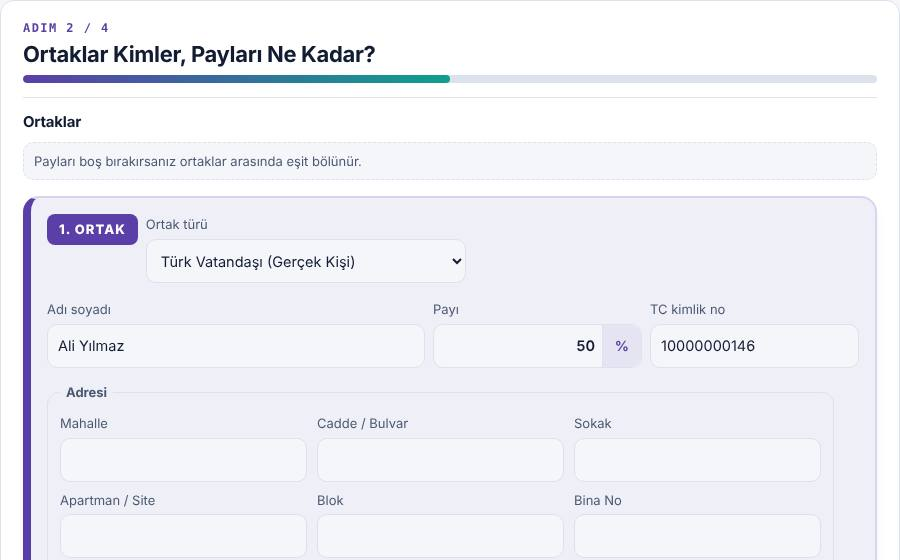
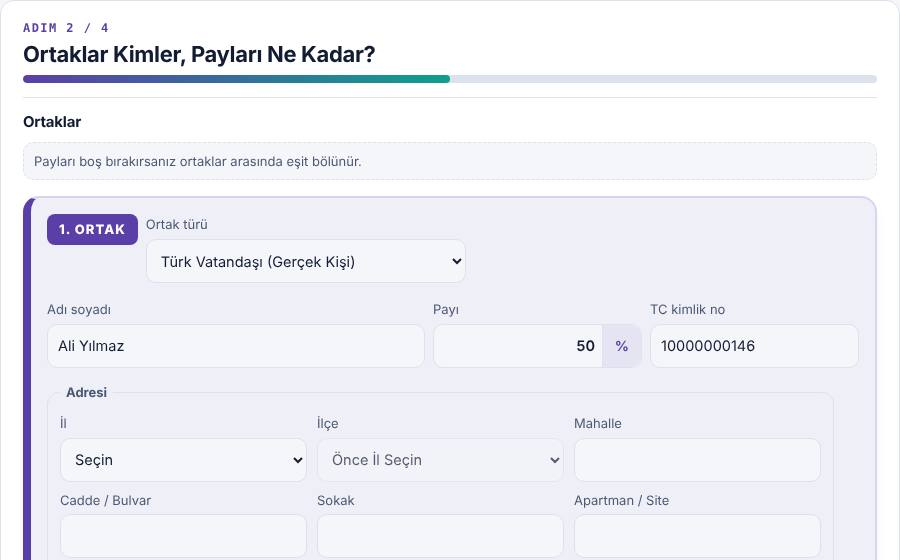
Adres: ilçe açılır listeden (81 il), mahalle önerili; dilekçe formlarında da aynı
Claude-Session: https://claude.ai/code/session_018UFAVAkLcBcEWp4f4jsZc1

diff --git a/site/index.html b/site/index.html
@@ -3329,18 +3329,19 @@ var IST=['Adalar','Arnavutköy','Ataşehir','Avcılar','Bağcılar','Bahçelievl
 function addrStr(a){if(!a)return '';var p=[];if(a.mah)p.push(a.mah+(/mah/i.test(a.mah)?'':' Mah.'));if(a.cad)p.push(a.cad+(/(cad|bulv|bul\.)/i.test(a.cad)?'':' Cad.'));if(a.sok)p.push(a.sok+(/sok|sk\.?$/i.test(a.sok)?'':' Sk.'));var no='';if(a.no)no='No: '+a.no+(a.daire?'/'+a.daire:'');if(no)p.push(no);var tail=[a.pk,[a.ilce,a.il].filter(Boolean).join(' / ')].filter(Boolean).join(' ');if(tail)p.push(tail);return p.join(' ');}
 function addrHtml(id,label,val){val=val||{};return '<div class="f addr" data-addr="'+id+'"><label>'+esc(label)+'</label><div class="agrid">'+
   '<div class="inp"><select data-a="il" aria-label="İl"><option value="">İl seçin</option>'+ILLER.map(function(x){return '<option'+(x===(val.il||'')?' selected':'')+'>'+x+'</option>';}).join('')+'</select></div>'+
-  '<div class="inp"><input data-a="ilce" placeholder="İlçe" aria-label="İlçe" autocomplete="off" value="'+esc(val.ilce||'')+'"'+((val.il||'')==='İstanbul'?' list="dl-ist"':'')+'></div>'+
-  '<div class="inp a-wide"><input data-a="mah" placeholder="Mahalle" aria-label="Mahalle" value="'+esc(val.mah||'')+'"></div>'+
+  '<div class="inp"><select data-a="ilce" aria-label="İlçe"'+(val.il?'':' disabled')+'>'+ilceOpts(val.il,val.ilce)+'</select></div>'+
+  '<div class="inp a-wide"><input data-a="mah" placeholder="Mahalle" aria-label="Mahalle" autocomplete="off" list="dlm-'+id+'" value="'+esc(val.mah||'')+'"><datalist id="dlm-'+id+'"></datalist></div>'+
   '<div class="inp"><input data-a="cad" placeholder="Cadde / bulvar" aria-label="Cadde veya bulvar" value="'+esc(val.cad||'')+'"></div>'+
   '<div class="inp"><input data-a="sok" placeholder="Sokak" aria-label="Sokak" value="'+esc(val.sok||'')+'"></div>'+
   '<div class="inp"><input data-a="no" placeholder="Bina no" aria-label="Bina numarası" value="'+esc(val.no||'')+'"></div>'+
   '<div class="inp"><input data-a="daire" placeholder="Daire no" aria-label="Daire numarası" value="'+esc(val.daire||'')+'"></div>'+
   '<div class="inp"><input data-a="pk" placeholder="Posta kodu" aria-label="Posta kodu" inputmode="numeric" maxlength="5" value="'+esc(val.pk||'')+'"></div>'+
   '</div></div>';}
-function bindAddr(wrap,obj,cb){
+function ilceOpts(il,cur){var L=(il&&window.ekAdrD&&ekAdrD.ilce[il]||[]).slice().sort(function(a,b){return a.localeCompare(b,'tr');});if(cur&&L.indexOf(cur)<0)L.unshift(cur);return '<option value="">'+(il?'İlçe seçin':'Önce il seçin')+'</option>'+L.map(function(x){return '<option'+(x===cur?' selected':'')+'>'+esc(x)+'</option>';}).join('');}
+function bindAddr(wrap,obj,cb){var mi=$('[data-a=mah]',wrap);if(obj.il&&window.ekAdrMah&&mi)ekAdrMah(obj.il,obj.ilce,mi.getAttribute('list'));
   $$('[data-a]',wrap).forEach(function(el){var k=el.dataset.a;
     if(k==='pk')bindMask(el,'posta');
-    ['input','change'].forEach(function(ev){el.addEventListener(ev,function(){obj[k]=el.value;if(k==='il'){var ic=$('[data-a=ilce]',wrap);if(el.value==='İstanbul')ic.setAttribute('list','dl-ist');else ic.removeAttribute('list');}cb();});});});
+    ['input','change'].forEach(function(ev){el.addEventListener(ev,function(){obj[k]=el.value;if(k==='il'){var ic=$('[data-a=ilce]',wrap);obj.ilce='';ic.innerHTML=ilceOpts(el.value,'');ic.disabled=!el.value;}if((k==='il'||k==='ilce')&&window.ekAdrMah&&mi){if(obj.il)ekAdrMah(obj.il,obj.ilce,mi.getAttribute('list'));mi.placeholder=obj.ilce?'Mahalle (yazın ya da seçin)':'Mahalle';}cb();});});});
 }
 
 /* ---------- dilekçeler ---------- */
@@ -5238,16 +5239,24 @@ window.ekKimHtml=function(i,k,e){var t=k.tip||'gk',pre=e.pre||'',O=[['gk','Türk
   return h+'<small class="es-kerr" id="'+pre+'kerr'+i+'"></small>';};
 /* Bölümlü adres: mahalle, cadde, sokak, apartman/site, blok, no, daire, ilçe, il (birleşik metin obj[field] içine yazılır) */
 window.ekAdrIL='Adana,Adıyaman,Afyonkarahisar,Ağrı,Aksaray,Amasya,Ankara,Antalya,Ardahan,Artvin,Aydın,Balıkesir,Bartın,Batman,Bayburt,Bilecik,Bingöl,Bitlis,Bolu,Burdur,Bursa,Çanakkale,Çankırı,Çorum,Denizli,Diyarbakır,Düzce,Edirne,Elazığ,Erzincan,Erzurum,Eskişehir,Gaziantep,Giresun,Gümüşhane,Hakkari,Hatay,Iğdır,Isparta,İstanbul,İzmir,Kahramanmaraş,Karabük,Karaman,Kars,Kastamonu,Kayseri,Kırıkkale,Kırklareli,Kırşehir,Kilis,Kocaeli,Konya,Kütahya,Malatya,Manisa,Mardin,Mersin,Muğla,Muş,Nevşehir,Niğde,Ordu,Osmaniye,Rize,Sakarya,Samsun,Siirt,Sinop,Sivas,Şanlıurfa,Şırnak,Tekirdağ,Tokat,Trabzon,Tunceli,Uşak,Van,Yalova,Yozgat,Zonguldak'.split(',');
+window.ekAdrD={"ilce":{"Balıkesir":["Altıeylül","Ayvalık","Balya","Bandırma","Bigadiç","Burhaniye","Dursunbey","Edremit","Erdek","Gömeç","Gönen","Havran","İvrindi","Karesi","Kepsut","Manyas","Marmara","Savaştepe","Susurluk","Sındırgı"],"Bilecik":["Bozüyük","Gölpazarı","İnhisar","Merkez","Osmaneli","Pazaryeri","Söğüt","Yenipazar"],"Bingöl":["Adaklı","Genç","Karlıova","Kiğı","Merkez","Solhan","Yayladere","Yedisu"],"Bitlis":["Adilcevaz","Ahlat","Güroymak","Hizan","Merkez","Mutki","Tatvan"],"Bolu":["Dörtdivan","Gerede","Göynük","Kıbrıscık","Mengen","Merkez","Mudurnu","Seben","Yeniçağa"],"Burdur":["Altınyayla","Ağlasun","Bucak","Gölhisar","Karamanlı","Kemer","Merkez","Tefenni","Yeşilova","Çavdır","Çeltikçi"],"Bursa":["Büyükorhan","Gemlik","Gürsu","Harmancık","İnegöl","İznik","Karacabey","Keles","Kestel","Mudanya","Mustafakemalpaşa","Nilüfer","Orhaneli","Orhangazi","Osmangazi","Yenişehir","Yıldırım"],"Çanakkale":["Ayvacık","Bayramiç","Biga","Bozcaada","Eceabat","Ezine","Gelibolu","Gökçeada","Lapseki","Merkez","Yenice","Çan"],"Çankırı":["Atkaracalar","Bayramören","Eldivan","Ilgaz","Korgun","Kurşunlu","Kızılırmak","Merkez","Orta","Yapraklı","Çerkeş","Şabanözü"],"Çorum":["Alaca","Bayat","Boğazkale","Dodurga","İskilip","Kargı","Laçin","Mecitözü","Merkez","Ortaköy","Osmancık","Oğuzlar","Sungurlu","Uğurludağ"],"Denizli":["Acıpayam","Babadağ","Baklan","Bekilli","Beyağaç","Bozkurt","Buldan","Güney","Honaz","Kale","Merkezefendi","Pamukkale","Sarayköy","Serinhisar","Tavas","Çal","Çameli","Çardak","Çivril"],"Diyarbakır":["Bağlar","Bismil","Dicle","Ergani","Eğil","Hani","Hazro","Kayapınar","Kocaköy","Kulp","Lice","Silvan","Sur","Yenişehir","Çermik","Çüngüş","Çınar"],"Edirne":["Enez","Havsa","İpsala","Keşan","Lalapaşa","Meriç","Merkez","Süloğlu","Uzunköprü"],"Elazığ":["Alacakaya","Arıcak","Ağın","Baskil","Karakoçan","Keban","Kovancılar","Maden","Merkez","Palu","Sivrice"],"Erzincan":["İliç","Kemah","Kemaliye","Merkez","Otlukbeli","Refahiye","Tercan","Çayırlı","Üzümlü"],"Erzurum":["Aziziye","Aşkale","Horasan","Hınıs","İspir","Karayazı","Karaçoban","Köprüköy","Narman","Oltu","Olur","Palandöken","Pasinler","Pazaryolu","Tekman","Tortum","Uzundere","Yakutiye","Çat","Şenkaya"],"Eskişehir":["Alpu","Beylikova","Günyüzü","Han","İnönü","Mahmudiye","Mihalgazi","Mihalıççık","Odunpazarı","Sarıcakaya","Seyitgazi","Sivrihisar","Tepebaşı","Çifteler"],"Gaziantep":["Araban","İslahiye","Karkamış","Nizip","Nurdağı","Oğuzeli","Yavuzeli","Şahinbey","Şehitkamil"],"Giresun":["Alucra","Bulancak","Dereli","Doğankent","Espiye","Eynesil","Görele","Güce","Keşap","Merkez","Piraziz","Tirebolu","Yağlıdere","Çamoluk","Çanakçı","Şebinkarahisar"],"Gümüşhane":["Kelkit","Köse","Kürtün","Merkez","Torul","Şiran"],"Hakkari":["Derecik","Merkez","Yüksekova","Çukurca","Şemdinli"],"Hatay":["Altınözü","Antakya","Arsuz","Belen","Defne","Dörtyol","Erzin","Hassa","İskenderun","Kumlu","Kırıkhan","Payas","Reyhanlı","Samandağ","Yayladağı"],"Isparta":["Aksu","Atabey","Eğirdir","Gelendost","Gönen","Keçiborlu","Merkez","Senirkent","Sütçüler","Uluborlu","Yalvaç","Yenişarbademli","Şarkikaraağaç"],"Mersin":["Akdeniz","Anamur","Aydıncık","Bozyazı","Erdemli","Gülnar","Mezitli","Mut","Silifke","Tarsus","Toroslar","Yenişehir","Çamlıyayla"],"İstanbul":["Adalar","Arnavutköy","Ataşehir","Avcılar","Bahçelievler","Bakırköy","Bayrampaşa","Bağcılar","Başakşehir","Beykoz","Beylikdüzü","Beyoğlu","Beşiktaş","Büyükçekmece","Esenler","Esenyurt","Eyüpsultan","Fatih","Gaziosmanpaşa","Güngören","Kadıköy","Kartal","Kağıthane","Küçükçekmece","Maltepe","Pendik","Sancaktepe","Sarıyer","Silivri","Sultanbeyli","Sultangazi","Tuzla","Zeytinburnu","Çatalca","Çekmeköy","Ümraniye","Üsküdar","Şile","Şişli"],"İzmir":["Aliağa","Balçova","Bayraklı","Bayındır","Bergama","Beydağ","Bornova","Buca","Dikili","Foça","Gaziemir","Güzelbahçe","Karabağlar","Karaburun","Karşıyaka","Kemalpaşa","Kiraz","Konak","Kınık","Menderes","Menemen","Narlıdere","Seferihisar","Selçuk","Tire","Torbalı","Urla","Çeşme","Çiğli","Ödemiş"],"Kars":["Akyaka","Arpaçay","Digor","Kağızman","Merkez","Sarıkamış","Selim","Susuz"],"Kastamonu":["Abana","Araç","Azdavay","Ağlı","Bozkurt","Cide","Daday","Devrekani","Doğanyurt","Hanönü","İhsangazi","İnebolu","Küre","Merkez","Pınarbaşı","Seydiler","Taşköprü","Tosya","Çatalzeytin","Şenpazar"],"Kayseri":["Akkışla","Bünyan","Develi","Felahiye","Hacılar","İncesu","Kocasinan","Melikgazi","Pınarbaşı","Sarıoğlan","Sarız","Talas","Tomarza","Yahyalı","Yeşilhisar","Özvatan"],"Kırklareli":["Babaeski","Demirköy","Kofçaz","Lüleburgaz","Merkez","Pehlivanköy","Pınarhisar","Vize"],"Kırşehir":["Akpınar","Akçakent","Boztepe","Kaman","Merkez","Mucur","Çiçekdağı"],"Kocaeli":["Başiskele","Darıca","Derince","Dilovası","Gebze","Gölcük","İzmit","Kandıra","Karamürsel","Kartepe","Körfez","Çayırova"],"Konya":["Ahırlı","Akören","Akşehir","Altınekin","Beyşehir","Bozkır","Cihanbeyli","Derbent","Derebucak","Doğanhisar","Emirgazi","Ereğli","Güneysınır","Hadim","Halkapınar","Hüyük","Ilgın","Kadınhanı","Karapınar","Karatay","Kulu","Meram","Sarayönü","Selçuklu","Seydişehir","Taşkent","Tuzlukçu","Yalıhüyük","Yunak","Çeltik","Çumra"],"Kütahya":["Altıntaş","Aslanapa","Domaniç","Dumlupınar","Emet","Gediz","Hisarcık","Merkez","Pazarlar","Simav","Tavşanlı","Çavdarhisar","Şaphane"],"Malatya":["Akçadağ","Arapgir","Arguvan","Battalgazi","Darende","Doğanyol","Doğanşehir","Hekimhan","Kale","Kuluncak","Pütürge","Yazıhan","Yeşilyurt"],"Manisa":["Ahmetli","Akhisar","Alaşehir","Demirci","Gölmarmara","Gördes","Kula","Köprübaşı","Kırkağaç","Salihli","Saruhanlı","Sarıgöl","Selendi","Soma","Turgutlu","Yunusemre","Şehzadeler"],"Kahramanmaraş":["Afşin","Andırın","Dulkadiroğlu","Ekinözü","Elbistan","Göksun","Nurhak","Onikişubat","Pazarcık","Türkoğlu","Çağlayancerit"],"Mardin":["Artuklu","Dargeçit","Derik","Kızıltepe","Mazıdağı","Midyat","Nusaybin","Savur","Yeşilli","Ömerli"],"Muğla":["Bodrum","Dalaman","Datça","Fethiye","Kavaklıdere","Köyceğiz","Marmaris","Menteşe","Milas","Ortaca","Seydikemer","Ula","Yatağan"],"Muş":["Bulanık","Hasköy","Korkut","Malazgirt","Merkez","Varto"],"Nevşehir":["Acıgöl","Avanos","Derinkuyu","Gülşehir","Hacıbektaş","Kozaklı","Merkez","Ürgüp"],"Niğde":["Altunhisar","Bor","Merkez","Ulukışla","Çamardı","Çiftlik"],"Ordu":["Akkuş","Altınordu","Aybastı","Fatsa","Gölköy","Gülyalı","Gürgentepe","İkizce","Kabadüz","Kabataş","Korgan","Kumru","Mesudiye","Perşembe","Ulubey","Çamaş","Çatalpınar","Çaybaşı","Ünye"],"Rize":["Ardeşen","Derepazarı","Fındıklı","Güneysu","Hemşin","İkizdere","İyidere","Kalkandere","Merkez","Pazar","Çamlıhemşin","Çayeli"],"Sakarya":["Adapazarı","Akyazı","Arifiye","Erenler","Ferizli","Geyve","Hendek","Karapürçek","Karasu","Kaynarca","Kocaali","Pamukova","Sapanca","Serdivan","Söğütlü","Taraklı"],"Samsun":["19 Mayıs","Alaçam","Asarcık","Atakum","Ayvacık","Bafra","Canik","Havza","İlkadım","Kavak","Ladik","Salıpazarı","Tekkeköy","Terme","Vezirköprü","Yakakent","Çarşamba"],"Siirt":["Baykan","Eruh","Kurtalan","Merkez","Pervari","Tillo","Şirvan"],"Sinop":["Ayancık","Boyabat","Dikmen","Durağan","Erfelek","Gerze","Merkez","Saraydüzü","Türkeli"],"Sivas":["Akıncılar","Altınyayla","Divriği","Doğanşar","Gemerek","Gölova","Gürün","Hafik","İmranlı","Kangal","Koyulhisar","Merkez","Suşehri","Ulaş","Yıldızeli","Zara","Şarkışla"],"Tekirdağ":["Ergene","Hayrabolu","Kapaklı","Malkara","Marmaraereğlisi","Muratlı","Saray","Süleymanpaşa","Çerkezköy","Çorlu","Şarköy"],"Tokat":["Almus","Artova","Başçiftlik","Erbaa","Merkez","Niksar","Pazar","Reşadiye","Sulusaray","Turhal","Yeşilyurt","Zile"],"Trabzon":["Akçaabat","Araklı","Arsin","Beşikdüzü","Dernekpazarı","Düzköy","Hayrat","Köprübaşı","Maçka","Of","Ortahisar","Sürmene","Tonya","Vakfıkebir","Yomra","Çarşıbaşı","Çaykara","Şalpazarı"],"Tunceli":["Hozat","Mazgirt","Merkez","Nazımiye","Ovacık","Pertek","Pülümür","Çemişgezek"],"Şanlıurfa":["Akçakale","Birecik","Bozova","Ceylanpınar","Eyyübiye","Halfeti","Haliliye","Harran","Hilvan","Karaköprü","Siverek","Suruç","Viranşehir"],"Uşak":["Banaz","Eşme","Karahallı","Merkez","Sivaslı","Ulubey"],"Van":["Bahçesaray","Başkale","Edremit","Erciş","Gevaş","Gürpınar","İpekyolu","Muradiye","Saray","Tuşba","Çaldıran","Çatak","Özalp"],"Yozgat":["Akdağmadeni","Aydıncık","Boğazlıyan","Kadışehri","Merkez","Saraykent","Sarıkaya","Sorgun","Yenifakılı","Yerköy","Çandır","Çayıralan","Çekerek","Şefaatli"],"Zonguldak":["Alaplı","Devrek","Ereğli","Gökçebey","Kilimli","Kozlu","Merkez","Çaycuma"],"Aksaray":["Ağaçören","Eskil","Gülağaç","Güzelyurt","Merkez","Ortaköy","Sarıyahşi","Sultanhanı"],"Bayburt":["Aydıntepe","Demirözü","Merkez"],"Karaman":["Ayrancı","Başyayla","Ermenek","Kazımkarabekir","Merkez","Sarıveliler"],"Kırıkkale":["Bahşılı","Balışeyh","Delice","Karakeçili","Keskin","Merkez","Sulakyurt","Yahşihan","Çelebi"],"Batman":["Beşiri","Gercüş","Hasankeyf","Kozluk","Merkez","Sason"],"Şırnak":["Beytüşşebap","Cizre","Güçlükonak","İdil","Merkez","Silopi","Uludere"],"Bartın":["Amasra","Kurucaşile","Merkez","Ulus"],"Ardahan":["Damal","Göle","Hanak","Merkez","Posof","Çıldır"],"Iğdır":["Aralık","Karakoyunlu","Merkez","Tuzluca"],"Yalova":["Altınova","Armutlu","Merkez","Termal","Çiftlikköy","Çınarcık"],"Karabük":["Eflani","Eskipazar","Merkez","Ovacık","Safranbolu","Yenice"],"Kilis":["Elbeyli","Merkez","Musabeyli","Polateli"],"Osmaniye":["Bahçe","Düziçi","Hasanbeyli","Kadirli","Merkez","Sumbas","Toprakkale"],"Düzce":["Akçakoca","Cumayeri","Gölyaka","Gümüşova","Kaynaşlı","Merkez","Yığılca","Çilimli"],"Adana":["Aladağ","Ceyhan","Feke","İmamoğlu","Karaisalı","Karataş","Kozan","Pozantı","Saimbeyli","Sarıçam","Seyhan","Tufanbeyli","Yumurtalık","Yüreğir","Çukurova"],"Adıyaman":["Besni","Gerger","Gölbaşı","Kahta","Merkez","Samsat","Sincik","Tut","Çelikhan"],"Afyonkarahisar":["Bayat","Başmakçı","Bolvadin","Dazkırı","Dinar","Emirdağ","Evciler","Hocalar","İhsaniye","İscehisar","Kızılören","Merkez","Sandıklı","Sinanpaşa","Sultandağı","Çay","Çobanlar","Şuhut"],"Ağrı":["Diyadin","Doğubayazıt","Eleşkirt","Hamur","Merkez","Patnos","Taşlıçay","Tutak"],"Amasya":["Göynücek","Gümüşhacıköy","Hamamözü","Merkez","Merzifon","Suluova","Taşova"],"Ankara":["Akyurt","Altındağ","Ayaş","Bala","Beypazarı","Elmadağ","Etimesgut","Evren","Gölbaşı","Güdül","Haymana","Kahramankazan","Kalecik","Keçiören","Kızılcahamam","Mamak","Nallıhan","Polatlı","Pursaklar","Sincan","Yenimahalle","Çamlıdere","Çankaya","Çubuk","Şereflikoçhisar"],"Antalya":["Akseki","Aksu","Alanya","Demre","Döşemealtı","Elmalı","Finike","Gazipaşa","Gündoğmuş","İbradı","Kaş","Kemer","Kepez","Konyaaltı","Korkuteli","Kumluca","Manavgat","Muratpaşa","Serik"],"Artvin":["Ardanuç","Arhavi","Borçka","Hopa","Kemalpaşa","Merkez","Murgul","Yusufeli","Şavşat"],"Aydın":["Bozdoğan","Buharkent","Didim","Efeler","Germencik","İncirliova","Karacasu","Karpuzlu","Koçarlı","Kuyucak","Kuşadası","Köşk","Nazilli","Sultanhisar","Söke","Yenipazar","Çine"]},"kod":{"Balıkesir":"10","Bilecik":"11","Bingöl":"12","Bitlis":"13","Bolu":"14","Burdur":"15","Bursa":"16","Çanakkale":"17","Çankırı":"18","Çorum":"19","Denizli":"20","Diyarbakır":"21","Edirne":"22","Elazığ":"23","Erzincan":"24","Erzurum":"25","Eskişehir":"26","Gaziantep":"27","Giresun":"28","Gümüşhane":"29","Hakkari":"30","Hatay":"31","Isparta":"32","Mersin":"33","İstanbul":"34","İzmir":"35","Kars":"36","Kastamonu":"37","Kayseri":"38","Kırklareli":"39","Kırşehir":"40","Kocaeli":"41","Konya":"42","Kütahya":"43","Malatya":"44","Manisa":"45","Kahramanmaraş":"46","Mardin":"47","Muğla":"48","Muş":"49","Nevşehir":"50","Niğde":"51","Ordu":"52","Rize":"53","Sakarya":"54","Samsun":"55","Siirt":"56","Sinop":"57","Sivas":"58","Tekirdağ":"59","Tokat":"60","Trabzon":"61","Tunceli":"62","Şanlıurfa":"63","Uşak":"64","Van":"65","Yozgat":"66","Zonguldak":"67","Aksaray":"68","Bayburt":"69","Karaman":"70","Kırıkkale":"71","Batman":"72","Şırnak":"73","Bartın":"74","Ardahan":"75","Iğdır":"76","Yalova":"77","Karabük":"78","Kilis":"79","Osmaniye":"80","Düzce":"81","Adana":"01","Adıyaman":"02","Afyonkarahisar":"03","Ağrı":"04","Amasya":"05","Ankara":"06","Antalya":"07","Artvin":"08","Aydın":"09"}};
 window.ekAdrStr=function(p){p=p||{};var a=[],t=function(x){return String(x||'').trim();};
   if(t(p.mah))a.push(t(p.mah)+(/mah/i.test(p.mah)?'':' Mah.'));if(t(p.cad))a.push(t(p.cad)+(/(cad|bulv|bul\.)/i.test(p.cad)?'':' Cad.'));if(t(p.sok))a.push(t(p.sok)+(/(sok|sk\.?$)/i.test(p.sok)?'':' Sk.'));
-  if(t(p.apt))a.push(t(p.apt)+(/(apt|site|plaza|merkez|rezidans|konut|evleri)/i.test(p.apt)?'':' Apt.'));if(t(p.blok))a.push(t(p.blok)+(/blok/i.test(p.blok)?'':' Blok'));
+  if(t(p.apt))a.push(t(p.apt)+(/(apt|site|plaza|merkez|rezidans|residence|konut|evleri|han[ıi]?$|işhanı|pasaj|çarşı|kule|tower|center|centre|ap\.?$)/i.test(p.apt)?'':' Apt.'));if(t(p.blok))a.push(t(p.blok)+(/blok/i.test(p.blok)?'':' Blok'));
   if(t(p.no))a.push('No: '+t(p.no));if(t(p.daire))a.push('Daire: '+t(p.daire));if(t(p.ek))a.push(t(p.ek));var tl=[t(p.ilce),t(p.il)].filter(Boolean).join(' / ');if(tl)a.push(tl);return a.join(' ');};
 window.ekAdrHtml=function(path,obj,field,label,ea){var P=obj[field+'P'];if(!P){P={};if(obj[field])P.ek=obj[field];if(field==='adres'&&obj.ilce&&!/\//.test(obj.ilce))P.ilce=obj.ilce;if(field==='adres'&&obj.il&&ekAdrIL.indexOf(obj.il)>=0)P.il=obj.il;}var E=function(x){return esc(x==null?'':String(x));};
   function f(k,lab,ph,cls,im){return '<label class="fb-f ad-'+k+(cls?' '+cls:'')+'"><span>'+lab+'</span><input data-ap="'+k+'" data-apath="'+path+'" value="'+E(P[k])+'" placeholder="'+E(ph)+'" autocomplete="off"'+(im?' inputmode="'+im+'"':' autocapitalize="words"')+'></label>';}
-  var il='<label class="fb-f ad-il"><span>İl</span><select data-ap="il" data-apath="'+path+'"><option value="">Seçin</option>'+ekAdrIL.map(function(x){return '<option'+(x===P.il?' selected':'')+'>'+x+'</option>';}).join('')+'</select></label>';
-  return '<fieldset class="ek-adr"><legend>'+E(label||'Adres')+'</legend><div class="ek-ag">'+f('mah','Mahalle','')+f('cad','Cadde / Bulvar','')+f('sok','Sokak','')+f('apt','Apartman / Site','')+f('blok','Blok','')+f('no','Bina No','','',' text')+f('daire','Daire No','','',' text')+f('ilce','İlçe','')+il+f('ek','Diğer (Kat, Posta Kodu vb.)','','ad-wide')+'</div><p class="ek-aprev">'+(ea&&ea.noPrev?'':'<span>Adres:</span> <b data-aprev="'+path+'">'+E(ekAdrStr(P)||'—')+'</b>')+'</p></fieldset>';};
+  var il='<label class="fb-f ad-il"><span>İl</span><select data-ap="il" data-apath="'+path+'" data-re="1"><option value="">Seçin</option>'+ekAdrIL.map(function(x){return '<option'+(x===P.il?' selected':'')+'>'+x+'</option>';}).join('')+'</select></label>';
+  var IC=(P.il&&ekAdrD.ilce[P.il]||[]).slice().sort(function(a,b){return a.localeCompare(b,'tr');});if(P.ilce&&IC.indexOf(P.ilce)<0)IC.unshift(P.ilce);
+  var ilce='<label class="fb-f ad-ilce"><span>İlçe</span><select data-ap="ilce" data-apath="'+path+'"'+(P.il?'':' disabled')+'><option value="">'+(P.il?'Seçin':'Önce il seçin')+'</option>'+IC.map(function(x){return '<option'+(x===P.ilce?' selected':'')+'>'+E(x)+'</option>';}).join('')+'</select></label>';
+  var dl='ekm-'+path.replace(/[^a-z0-9]/gi,'_');if(P.il)ekAdrMah(P.il,P.ilce,dl);
+  var mah='<label class="fb-f ad-mah"><span>Mahalle</span><input data-ap="mah" data-apath="'+path+'" value="'+E(P.mah)+'" autocomplete="off" autocapitalize="words" list="'+dl+'" placeholder="'+(P.ilce?'Yazın ya da listeden seçin':'')+'"><datalist id="'+dl+'"></datalist></label>';
+  return '<fieldset class="ek-adr"><legend>'+E(label||'Adres')+'</legend><div class="ek-ag">'+il+ilce+mah+f('cad','Cadde / Bulvar','')+f('sok','Sokak','')+f('apt','Apartman / Site','')+f('blok','Blok','')+f('no','Bina No','','',' text')+f('daire','Daire No','','',' text')+f('ek','Diğer (Kat, Posta Kodu vb.)','','ad-wide')+'</div><p class="ek-aprev">'+(ea&&ea.noPrev?'':'<span>Adres:</span> <b data-aprev="'+path+'">'+E(ekAdrStr(P)||'—')+'</b>')+'</p></fieldset>';};
+/* Mahalle önerileri: il seçilince GitHub'daki il dosyası bir kez indirilir */
+var EKM={};window.ekAdrMah=function(il,ilce,dl){var k=ekAdrD.kod[il];if(!k)return;function put(){var el=document.getElementById(dl);if(!el)return;var o=EKM[k]||{},L=ilce?(o[ilce]||[]):[];el.innerHTML=L.map(function(x){return '<option value="'+esc(x)+'">';}).join('');}
+  if(EKM[k]){setTimeout(put,0);return;}EKM[k]={};fetch((window.DATA_BASE||'https://raw.githubusercontent.com/erdalladre76/erdalkarahan-veri/main/')+'adres/'+k+'.json').then(function(r){return r.json();}).then(function(j){EKM[k]=j;put();}).catch(function(){delete EKM[k];});};
 /* data-apath="liste|sıra|alan" ya da "|-|alan" → nesneyi bulur, parçayı yazar, birleşik metni günceller */
-window.ekAdrIn=function(el,st){var q=(el.dataset.apath||'').split('|'),obj=q[0]?st[q[0]][+q[1]]:st,fd=q[2];if(!obj)return null;var P=obj[fd+'P']||(obj[fd+'P']=obj[fd]?{ek:obj[fd]}:{});P[el.dataset.ap]=el.value;obj[fd]=ekAdrStr(P);
+window.ekAdrIn=function(el,st){var q=(el.dataset.apath||'').split('|'),obj=q[0]?st[q[0]][+q[1]]:st,fd=q[2];if(!obj)return null;var P=obj[fd+'P']||(obj[fd+'P']=obj[fd]?{ek:obj[fd]}:{});P[el.dataset.ap]=el.value;if(el.dataset.ap==='il'){P.ilce='';}obj[fd]=ekAdrStr(P);
   var pv=document.querySelector('[data-aprev="'+el.dataset.apath+'"]');if(pv)pv.textContent=obj[fd]||'—';return {obj:obj,P:P,fd:fd};};
 /* Yazarken her kelimenin ilk harfi büyük: yalnızca yeni yazılan harf kelime başındaysa büyütülür; silme ve düzeltmelerde dokunulmaz */
 (function(){var SM={'ve':1,'ile':1,'veya':1,'ya':1,'da':1,'de':1,'ki':1};
@@ -5455,7 +5464,7 @@ window.ekYuzMsg=function(K){var Y=K.map(function(k){return num(k.yuz);}),any=Y.s
    +'<p class="pnote">Bilgiler yalnızca bu tarayıcıda saklanır; siteye gönderilmez. Metin örnektir: MERSİS’te kuruluş başvurusunda bilgiler sisteme girilir ve esas sözleşme MERSİS’te oluşturulur; buradaki taslak hazırlık, ortaklarla paylaşım ve kontrol içindir. Kaynak: 6102 sayılı TTK md. 339–343, 573–590, 623; asgari sermaye tutarları 2024’ten itibaren geçerli Cumhurbaşkanı Kararı.</p>'
    +'</div><div class="fb-prev"><div class="fb-doc" id="es-doc"></div></div></div>';
  function go(n){step=Math.max(0,Math.min(STEPS.length-1,n));draw();var t=R.getBoundingClientRect().top;if(t<0||t>innerHeight*.5)R.scrollIntoView({block:'start'});}
- R.addEventListener('input',function(ev){var el=ev.target;if(el.dataset.ap){var r=ekAdrIn(el,st);if(r&&r.obj===st){st.il=r.P.il||'';st.ilce=r.P.ilce||'';}save();prev();return;}if(el.dataset.k){st[el.dataset.k]=el.value;save();prev();if(el.tagName==='SELECT')draw();return;}
+ R.addEventListener('input',function(ev){var el=ev.target;if(el.dataset.ap){var r=ekAdrIn(el,st);if(r&&r.obj===st){st.il=r.P.il||'';st.ilce=r.P.ilce||'';}save();if(el.dataset.ap==='il'){draw();return;}if(el.dataset.ap==='ilce'&&r){var lb=el.closest('.ek-ag'),mi=lb&&lb.querySelector('[data-ap=mah]');if(mi){mi.placeholder='Yazın ya da listeden seçin';ekAdrMah(r.P.il,r.P.ilce,mi.getAttribute('list'));}}prev();return;}if(el.dataset.k){st[el.dataset.k]=el.value;save();prev();if(el.tagName==='SELECT')draw();return;}
    if(el.dataset.l){st[el.dataset.l][+el.dataset.i][el.dataset.c]=el.value;if(el.dataset.l==='kur'&&el.dataset.c==='yuz')ekBal(st.kur,+el.dataset.i,R);save();if(el.dataset.re){draw();}else prev();}});
  R.addEventListener('change',function(ev){var el=ev.target;if(el.dataset.c&&el.type==='checkbox'){st[el.dataset.c]=el.checked?'1':'';save();draw();}
    if(el.dataset.k&&el.tagName==='SELECT'){st[el.dataset.k]=el.value;save();draw();}});
@@ -5592,7 +5601,7 @@ window.ekYuzMsg=function(K){var Y=K.map(function(k){return num(k.yuz);}),any=Y.s
    +'<div class="es-block" id="or-block" hidden></div><div class="es-warn" id="or-warn" hidden></div><p class="pnote">Bilgiler yalnızca bu tarayıcıda saklanır. Metin örnektir; ihale işlerinde idarenin istediği ortak girişim beyannamesi ve sözleşme şartlarını da kontrol edin. Dayanak: 6098 sayılı TBK md. 620–645, 5520 sayılı KVK md. 2/4.</p>'
    +'</div><div class="fb-prev"><div class="fb-doc" id="or-doc"></div></div></div>';
  function go(n){step=Math.max(0,Math.min(STEPS.length-1,n));draw();var t=R.getBoundingClientRect().top;if(t<0||t>innerHeight*.5)R.scrollIntoView({block:'start'});}
- R.addEventListener('input',function(ev){var el=ev.target;if(el.dataset.ap){var r=ekAdrIn(el,st);if(r&&r.obj===st){st.il=[r.P.ilce,r.P.il].filter(Boolean).join(' / ');}save();prev();return;}if(el.dataset.k){st[el.dataset.k]=el.value;save();if(el.tagName==='SELECT')draw();else prev();return;}
+ R.addEventListener('input',function(ev){var el=ev.target;if(el.dataset.ap){var r=ekAdrIn(el,st);if(r&&r.obj===st){st.il=[r.P.ilce,r.P.il].filter(Boolean).join(' / ');}save();if(el.dataset.ap==='il'){draw();return;}if(el.dataset.ap==='ilce'&&r){var lb=el.closest('.ek-ag'),mi=lb&&lb.querySelector('[data-ap=mah]');if(mi){mi.placeholder='Yazın ya da listeden seçin';ekAdrMah(r.P.il,r.P.ilce,mi.getAttribute('list'));}}prev();return;}if(el.dataset.k){st[el.dataset.k]=el.value;save();if(el.tagName==='SELECT')draw();else prev();return;}
    if(el.dataset.l){st[el.dataset.l][+el.dataset.i][el.dataset.c]=el.value;if(el.dataset.l==='kur'&&el.dataset.c==='yuz')ekBal(st.kur,+el.dataset.i,R);save();if(el.dataset.re)draw();else prev();}});
  R.addEventListener('change',function(ev){var el=ev.target;if(el.dataset.c&&el.type==='checkbox'){st[el.dataset.c]=el.checked?'1':'';save();draw();}});
  R.addEventListener('click',function(ev){var t=ev.target.closest('[data-a],[data-dl],[data-st],[data-tur],#or-prev,#or-next');if(!t)return;
@@ -5644,7 +5653,7 @@ window.ekYuzMsg=function(K){var Y=K.map(function(k){return num(k.yuz);}),any=Y.s
   gecbeyan:{t:'Beyanname vermeme cezası nasıl hesaplanır?',s:[['ceza','1. Beyannameyi ve tarihleri seçin','Beyanname türünü, son günü ve vereceğiniz günü girin.'],['steps','2. Soruları yanıtlayın','Pişmanlıkla mı veriyorsunuz, tahakkuk ne kadar gibi kısa sorular gelir.'],['bitti','3. Toplamı görün','Vergi, gecikme zammı, usulsüzlük cezası ve SGK idari para cezası tek toplamda gösterilir; birden fazla beyanname ekleyebilirsiniz.']]},
   arackdv:{t:'Araç KDV oranı nasıl bulunur?',s:[['arac','1. Aracı seçin','Binek, kamyonet, iş makinesi gibi aracın türünü seçin.'],['steps','2. Soruları yanıtlayın','İkinci el mi, satıcı galeri mi gibi sorular gelir.'],['bitti','3. Sonuç','KDV oranı, dayanağı, alıcının indirimi ve muhasebe kaydı açılır.']]}
  };
- var SH={esas:['esas-0','esas-0','esas-1','esas-2','esas-2',null,'esas-3','esas-4','esas-6',null],ortaklik:['or-0','or-0','or-1',null,'or-2','or-4',null],sirket:['sk-0','sk-1','sk-2','sk-3',null],gecbeyan:['gb-0','gb-1',null],arackdv:['ak-0','ak-1',null]},VER='202611120939';
+ var SH={esas:['esas-0','esas-0','esas-1','esas-2','esas-2',null,'esas-3','esas-4','esas-6',null],ortaklik:['or-0','or-0','or-1',null,'or-2','or-4',null],sirket:['sk-0','sk-1','sk-2','sk-3',null],gecbeyan:['gb-0','gb-1',null],arackdv:['ak-0','ak-1',null]},VER='202611120955';
  var MAP={sirket:'sirket',amackonu:'esas',ortaklik:'ortaklik',gecbeyan:'gecbeyan',arackdv:'arackdv'};
  function open(key){var h=H[key];if(!h)return;var m=document.getElementById('hlp-modal');if(!m){m=document.createElement('div');m.id='hlp-modal';m.setAttribute('role','dialog');m.setAttribute('aria-modal','true');document.body.appendChild(m);
      m.addEventListener('click',function(e){if(e.target===m||e.target.closest('[data-hx]')){m.hidden=true;document.documentElement.style.overflow='';}});document.addEventListener('keydown',function(e){if(e.key==='Escape'&&!m.hidden){m.hidden=true;document.documentElement.style.overflow='';}});}
